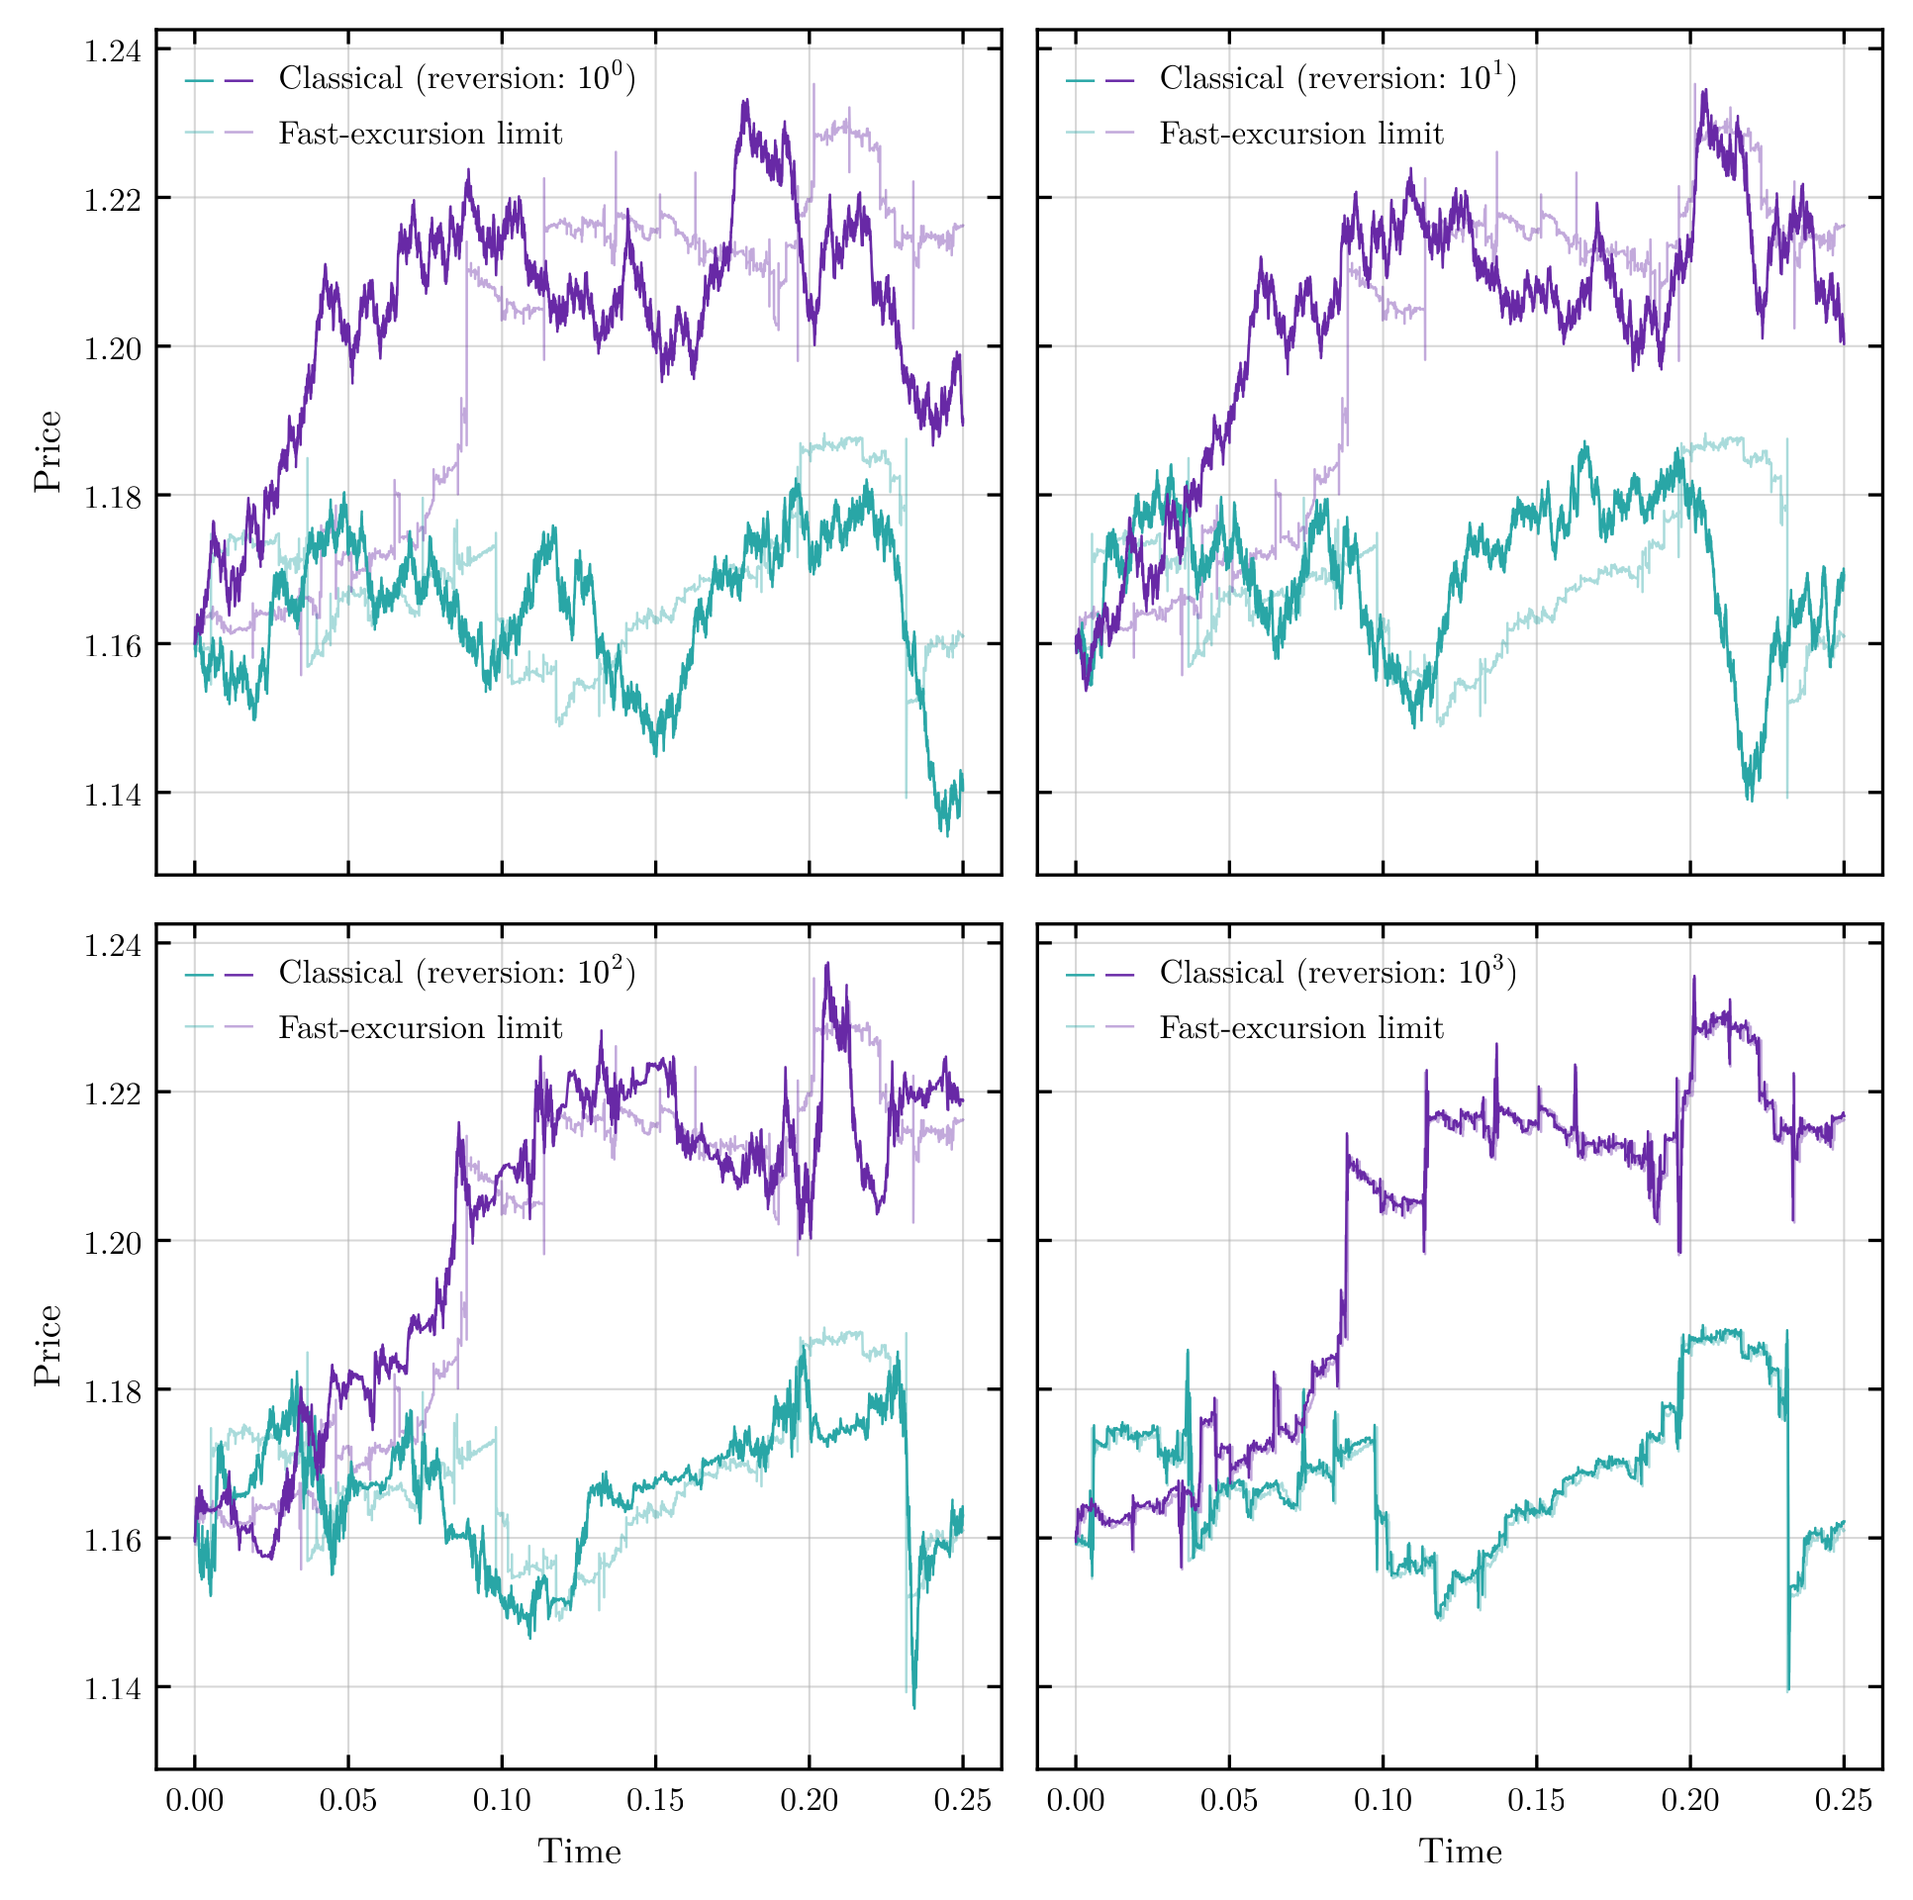
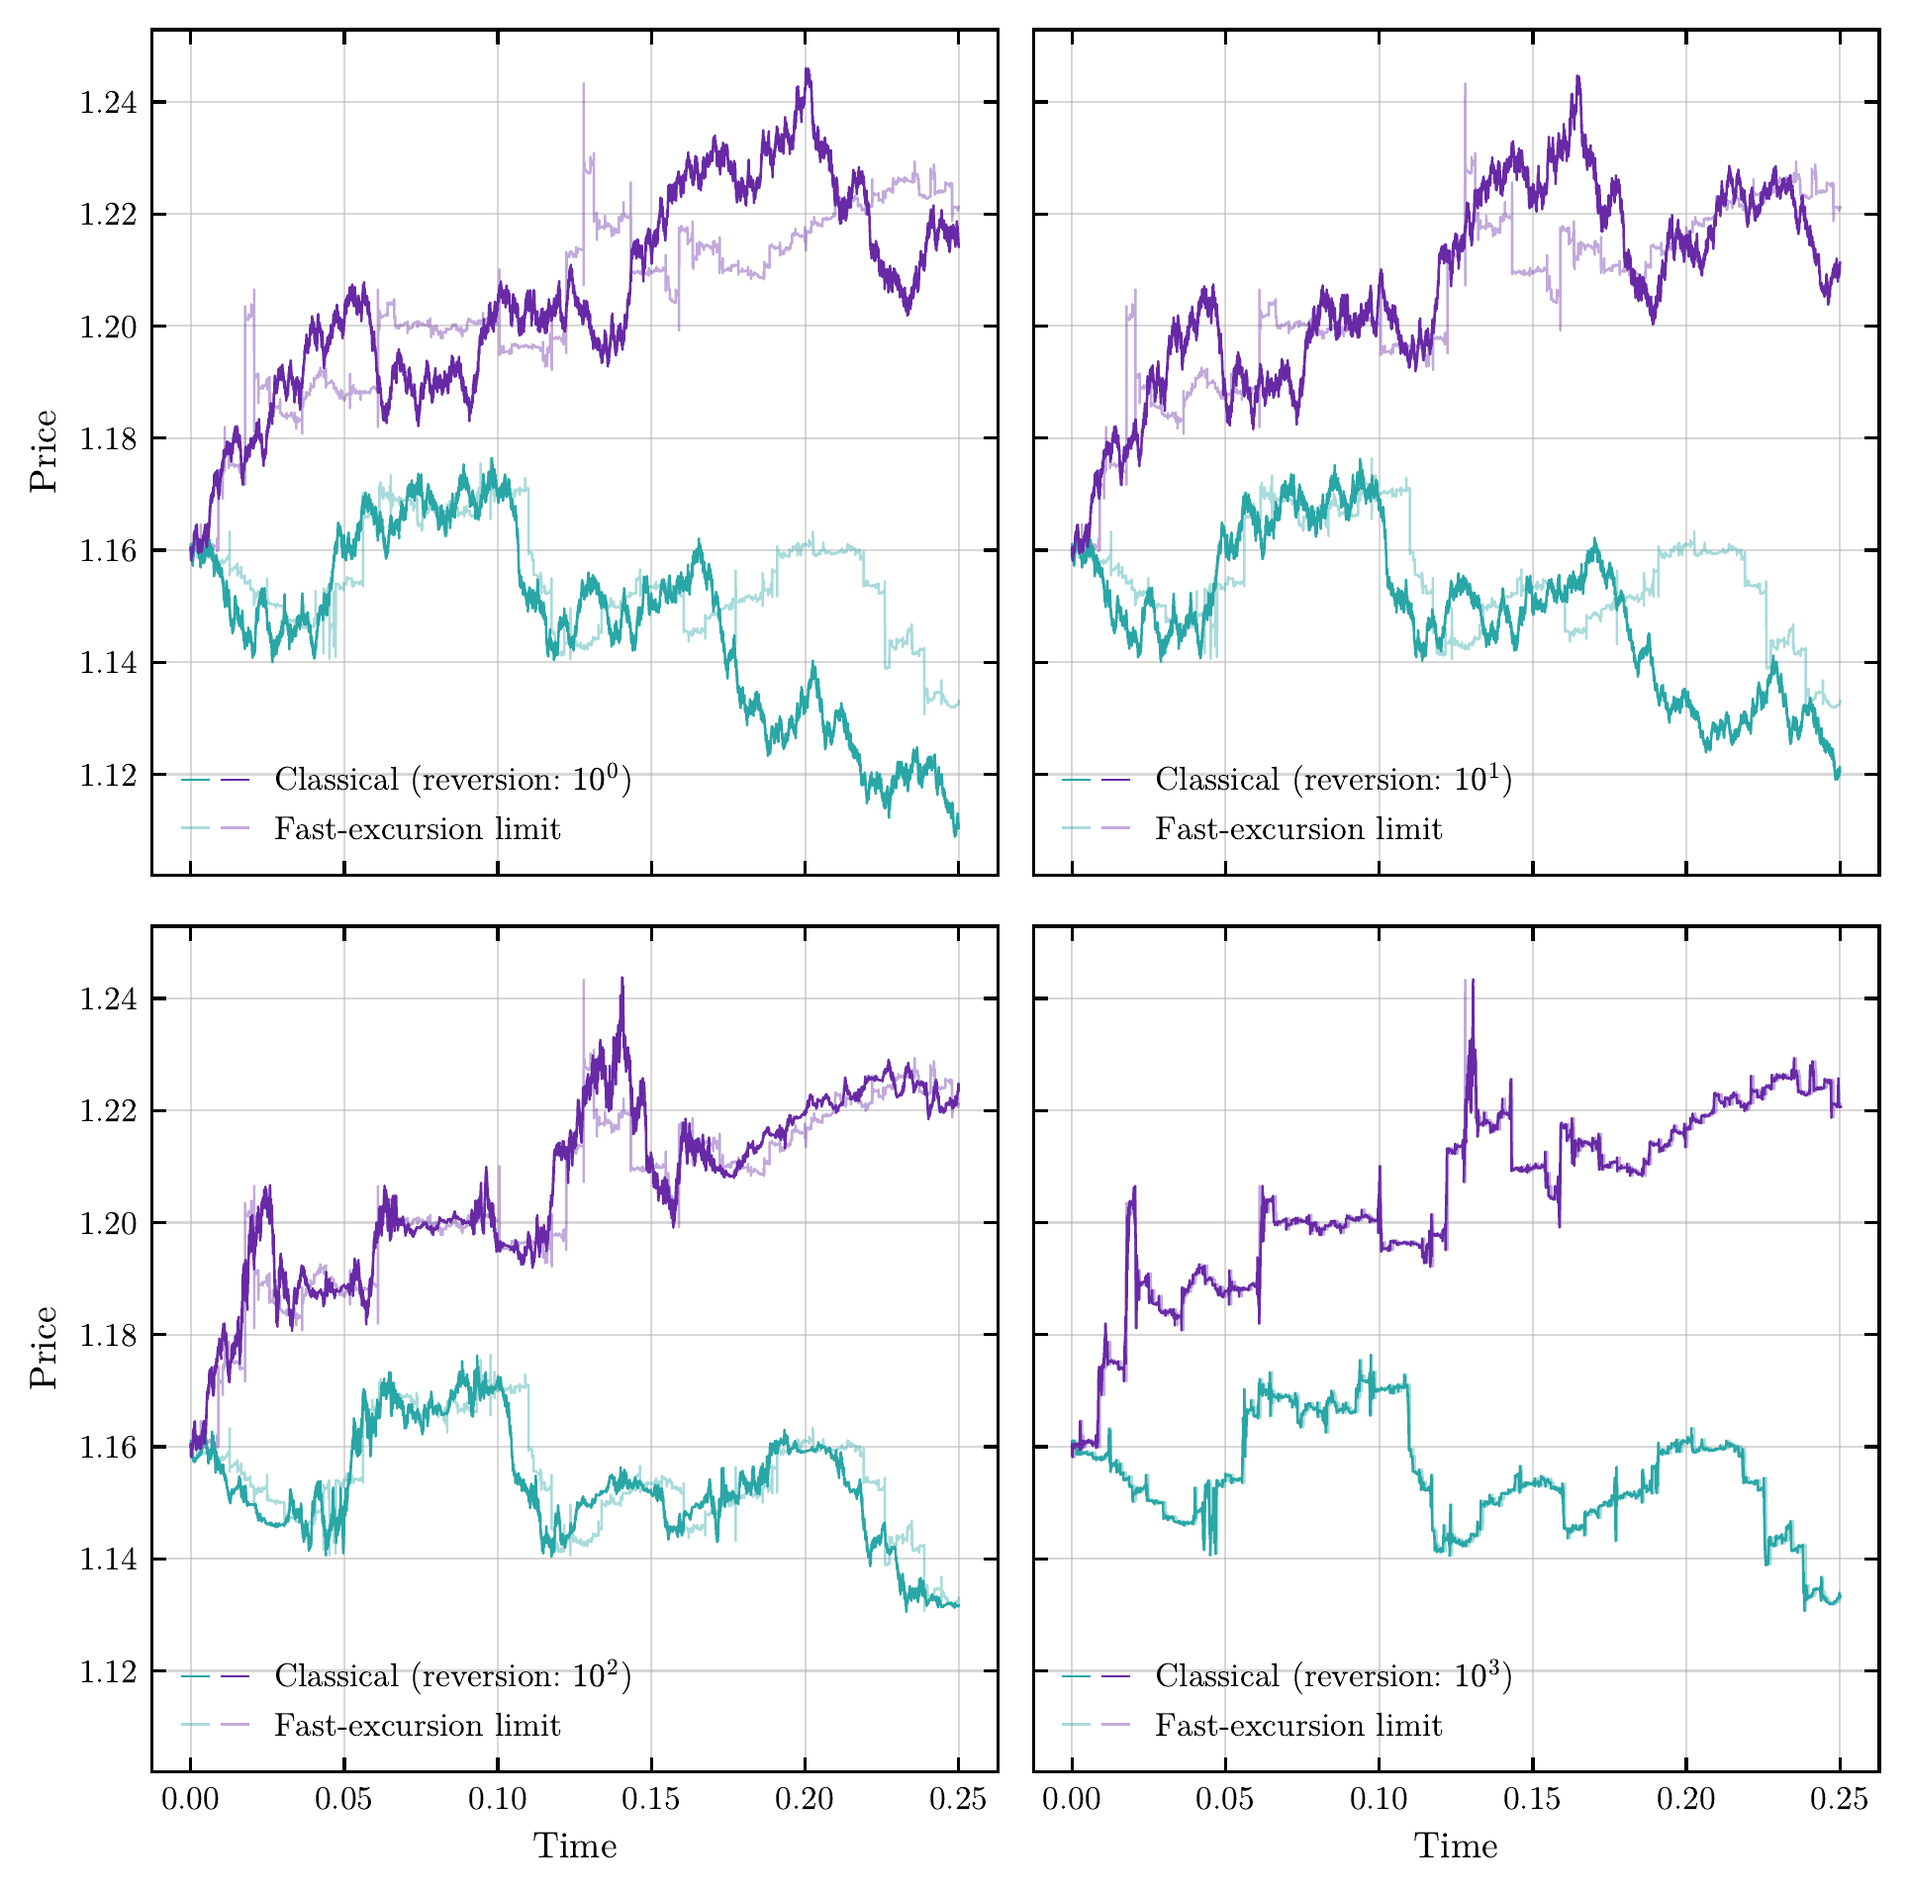
Improve random number alignment between models' simulation, closes #1

diff --git a/fast_excursion_limit/_heston_base.py b/fast_excursion_limit/_heston_base.py
@@ -38,42 +38,45 @@ class HestonBase:
         return self.domestic_rate - self.foreign_rate
 
     def simulate(self, maturity, step_size, full_output=False):
-        Y, W1, x = self._simulate_time(maturity, step_size)
-        Z, W0 = self._simulate_price(Y, W1, x)
+        Y, W, x = self._simulate_time(maturity, step_size)
+        Z = self._simulate_price(Y, W, x)
         if full_output:
-            return Z, Y, W0, W1, x
+            return Z, Y, W, x
         return Z, Y
 
-    def _simulate_price(self, Y, W1, x):
-        step_sizes = np.diff(x)
-        num_steps = len(step_sizes)
-        brownian_steps = np.random.normal(size=num_steps) * step_sizes**0.5
-        W0 = np.zeros_like(W1)
-        W0[1:] = np.cumsum(brownian_steps)
-        W = self.rho * W1 + (1.0 - self.rho**2) ** 0.5 * W0
+    def _simulate_price(self, Y, W, x):
+        B = (1.0 - self.rho**2) ** 0.5 * W[:, 0] + self.rho * W[:, 1]
         Z = self.spot_price * np.exp(
-            self._drift * Y + self.sigma * W - 0.5 * self.sigma**2 * x
+            self._drift * Y + self.sigma * B - 0.5 * self.sigma**2 * x
         )
-        return Z, W0
+        return Z
 
     def _simulate_time(self, maturity, step_size):
-        Y, W1, x = [0.0], [0.0], [0.0]
+        Y, W, x = [0.0], [(0.0, 0.0)], [0.0]
         # Iterate until Y strictly exceeds maturity
         while Y[-1] <= maturity:
             time_next, brownian_next, space_next = self._simulate_next(
                 time_prev=Y[-1],
-                brownian_prev=W1[-1],
+                brownian_prev=W[-1],
                 space_prev=x[-1],
                 step_size=step_size,
             )
             Y.append(time_next)
-            W1.append(brownian_next)
+            W.append(brownian_next)
             x.append(space_next)
-        return np.array(Y), np.array(W1), np.array(x)
+        return np.array(Y), np.array(W), np.array(x)
 
     def _simulate_next(self, time_prev, brownian_prev, space_prev, step_size):
-        # This is where HestonRandomODE and FastExcursionHeston differ
+        # This is where HestonRandomODE and FastExcursionHeston differ, although both
+        # make use of the following (inefficient) _brownian_next method in order to keep
+        # random numbers aligned.
         raise NotImplementedError
+
+    def _brownian_next(self, brownian_prev, step_size):
+        brownian_step = np.random.standard_normal(2) * step_size**0.5
+        W0 = brownian_prev[0] + brownian_step[0]
+        W1 = brownian_prev[1] + brownian_step[1]
+        return W0, W1
 
     def __eq__(self, other) -> bool:
         return type(self) is type(other) and vars(self) == vars(other)

diff --git a/fast_excursion_limit/fast_excursion_heston.py b/fast_excursion_limit/fast_excursion_heston.py
@@ -7,8 +7,8 @@ from fast_excursion_limit._heston_base import HestonBase
 class FastExcursionHeston(HestonBase):
     def _simulate_next(self, time_prev, brownian_prev, space_prev, step_size):
         space_next = space_prev + step_size
-        brownian_next = brownian_prev + np.random.normal() * step_size**0.5
-        time_next = max(time_prev, space_next - self.gamma * brownian_next)
+        brownian_next = self._brownian_next(brownian_prev, step_size)
+        time_next = max(time_prev, space_next - self.gamma * brownian_next[1])
         return time_next, brownian_next, space_next
 
     def cdf(self, strike, maturity):
@@ -30,8 +30,8 @@ class FastExcursionHeston(HestonBase):
             raise ValueError(
                 "norminvgauss params are undefined at gamma=0, sigma=0, or rho=+-1"
             )
-        # straight from Mechkov (2015) p.5 without the time scaling
         nu = self.gamma * self.sigma
+        # From Mechkov (2015) p.5 without the time scaling
         alpha = 0.5 * (4 - 4 * self.rho * nu + nu**2) ** 0.5 / nu / (1 - self.rho**2)
         beta = -0.5 * (nu - 2 * self.rho) / nu / (1 - self.rho**2)
         delta = self.sigma * (1 - self.rho**2) ** 0.5 / self.gamma

diff --git a/fast_excursion_limit/heston_random_ode.py b/fast_excursion_limit/heston_random_ode.py
@@ -1,5 +1,3 @@
-import numpy as np
-
 from fast_excursion_limit import defaults
 from fast_excursion_limit._heston_base import HestonBase
 from fast_excursion_limit.fast_excursion_heston import FastExcursionHeston
@@ -26,12 +24,12 @@ class HestonRandomODE(HestonBase):
         super()._check_params()
 
     def _simulate_next(self, time_prev, brownian_prev, space_prev, step_size):
-        # The 1 used here keeps a flat forward variance of \sigma^2, same as FEH
         gradient = (
-            self.reversion * (time_prev - space_prev + self.gamma * brownian_prev) + 1
+            self.reversion * (time_prev - space_prev + self.gamma * brownian_prev[1])
+            + 1  # The 1 here keeps a flat forward variance of \sigma^2, same as FEH
         )
         time_next = time_prev + step_size / max(gradient, defaults.EPSILON)
-        brownian_next = brownian_prev + np.random.normal() * step_size**0.5
+        brownian_next = self._brownian_next(brownian_prev, step_size)
         space_next = space_prev + step_size
         return time_next, brownian_next, space_next
 

diff --git a/fast_excursion_limit/defaults.py b/fast_excursion_limit/defaults.py
@@ -5,7 +5,8 @@ MATURITY_TOUCHES = 0.08
 DELTA_SCALE_PATHWISE = 1e-6
 DELTA_SCALE_TOUCHES = 1e-5
 
-SEED = 0
+# Essentially selected so that figure 4 looks reasonable
+SEED = 20
 
 # HestonRandomODE._simulate_next's gradient floor. Too high and the simulation is not
 # faithful to the model, too low and we must take the step size delta down too. It's not
